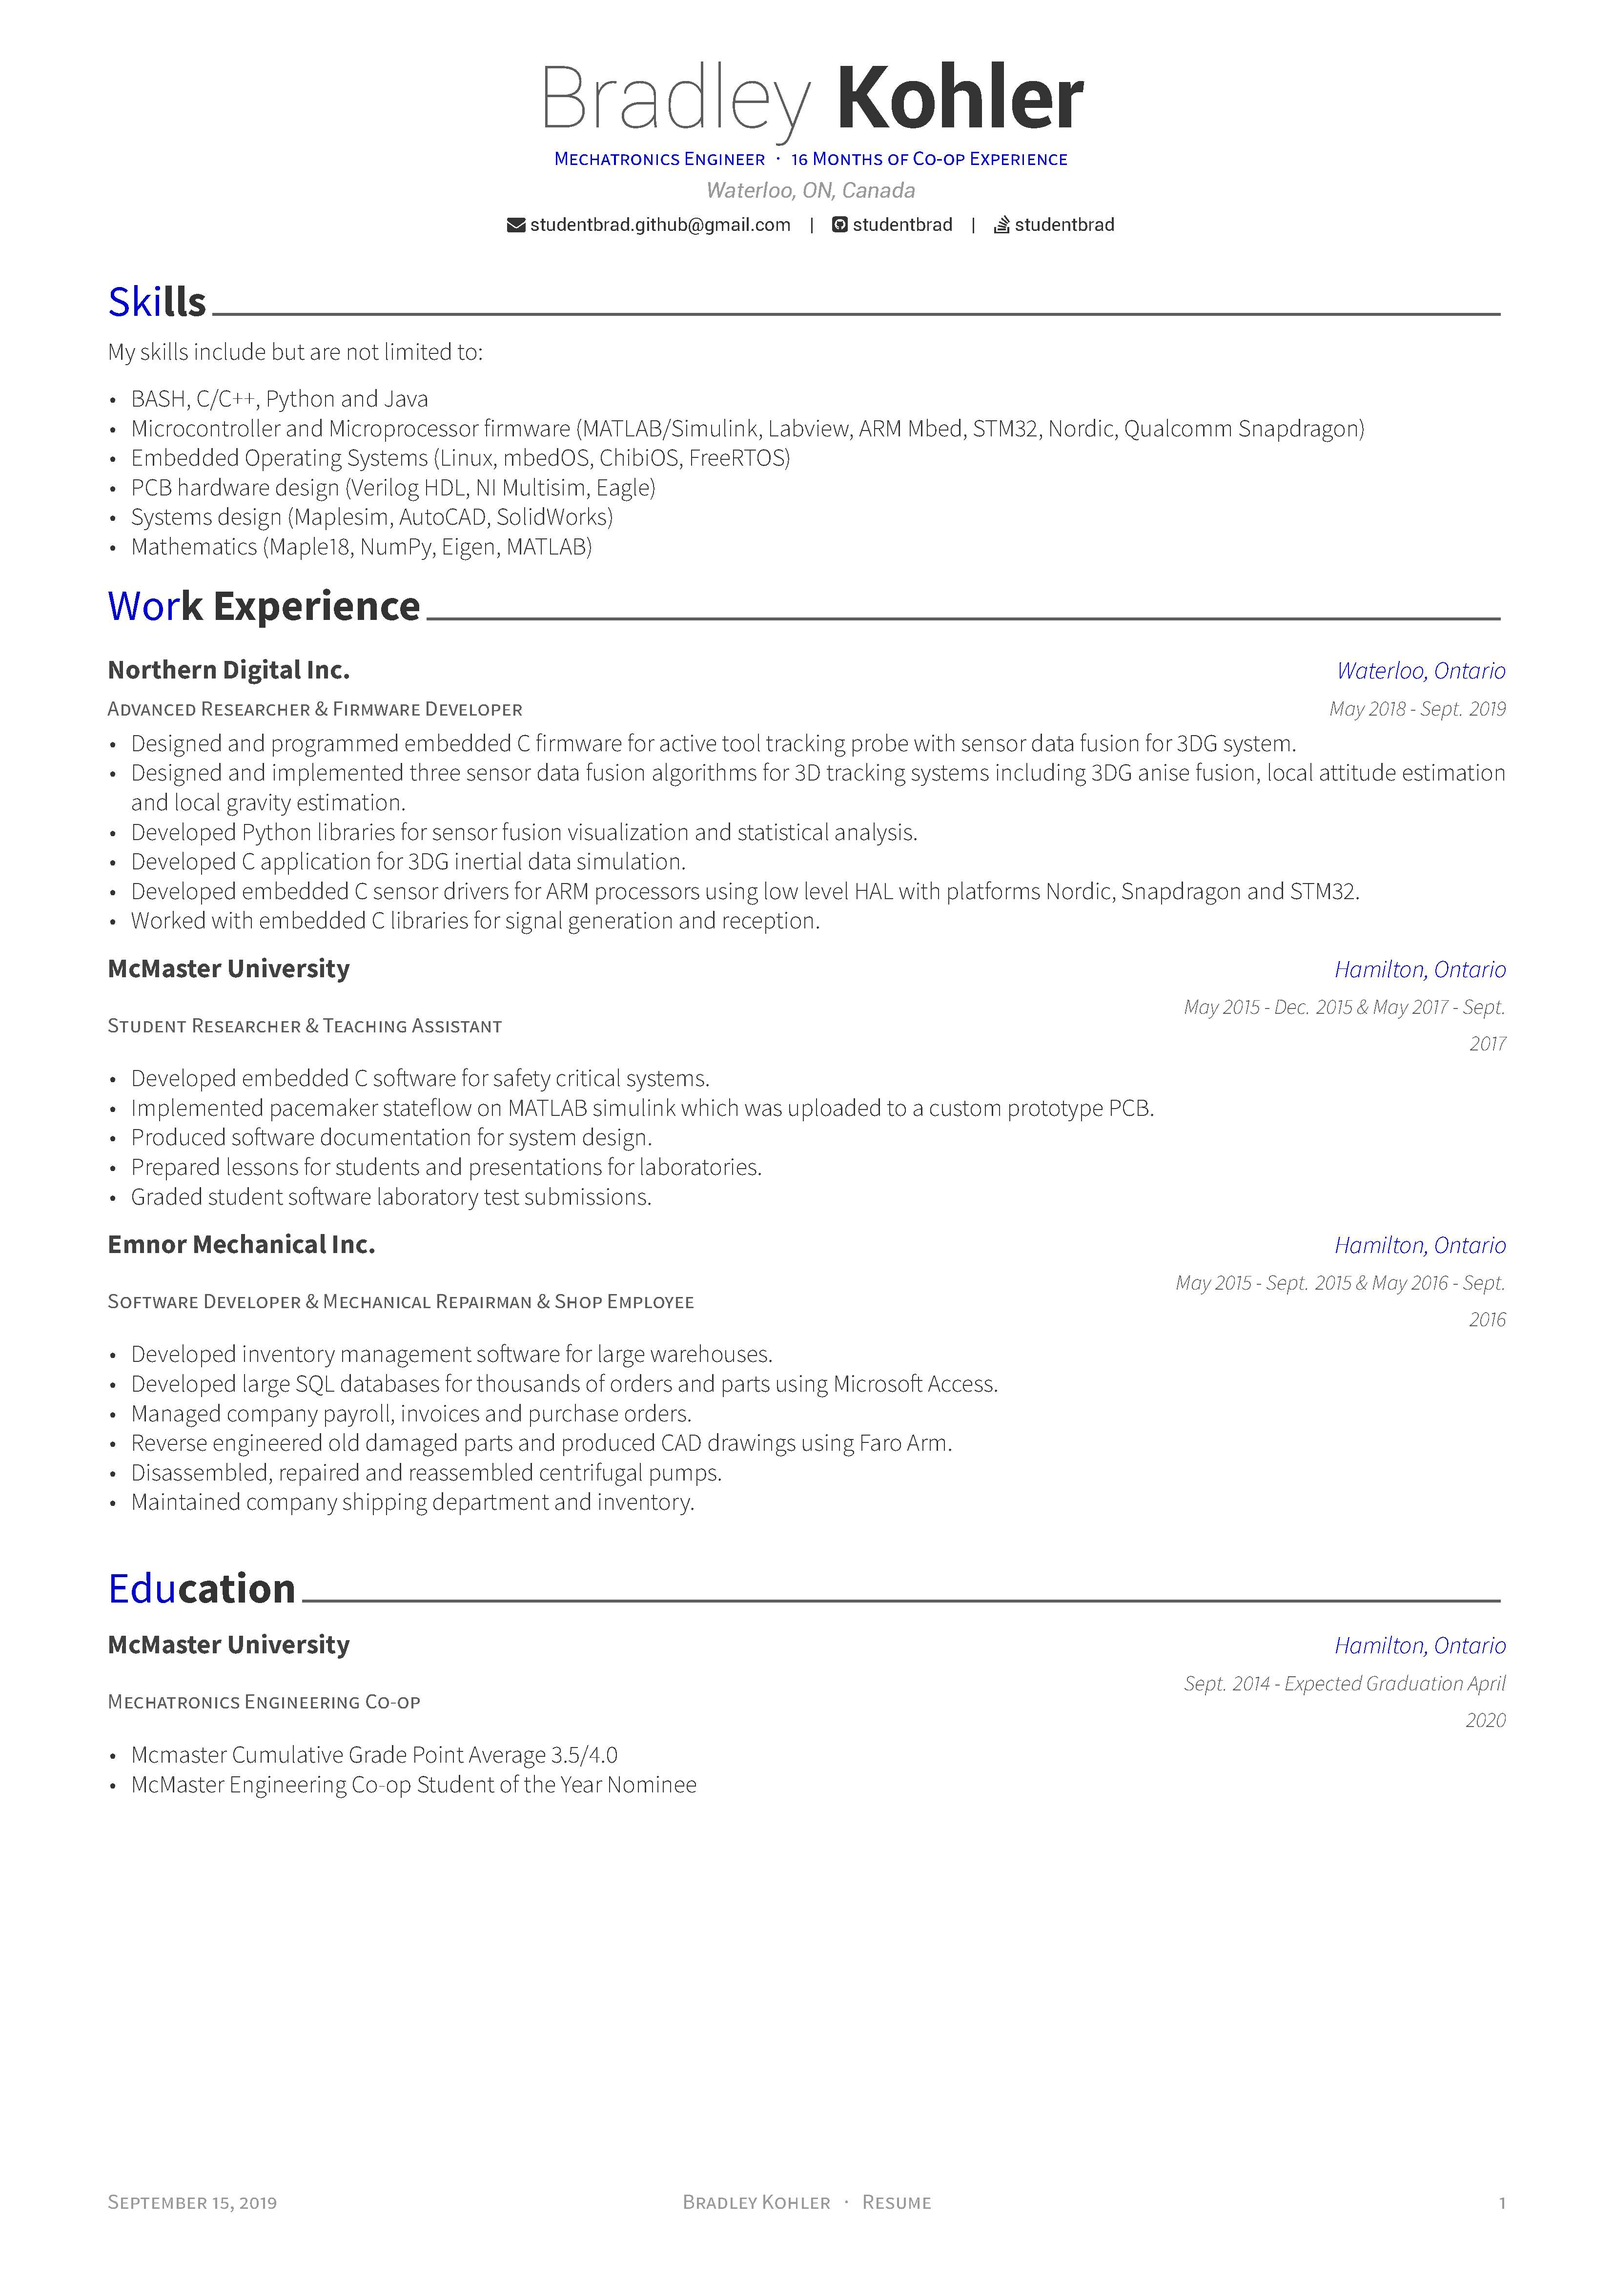
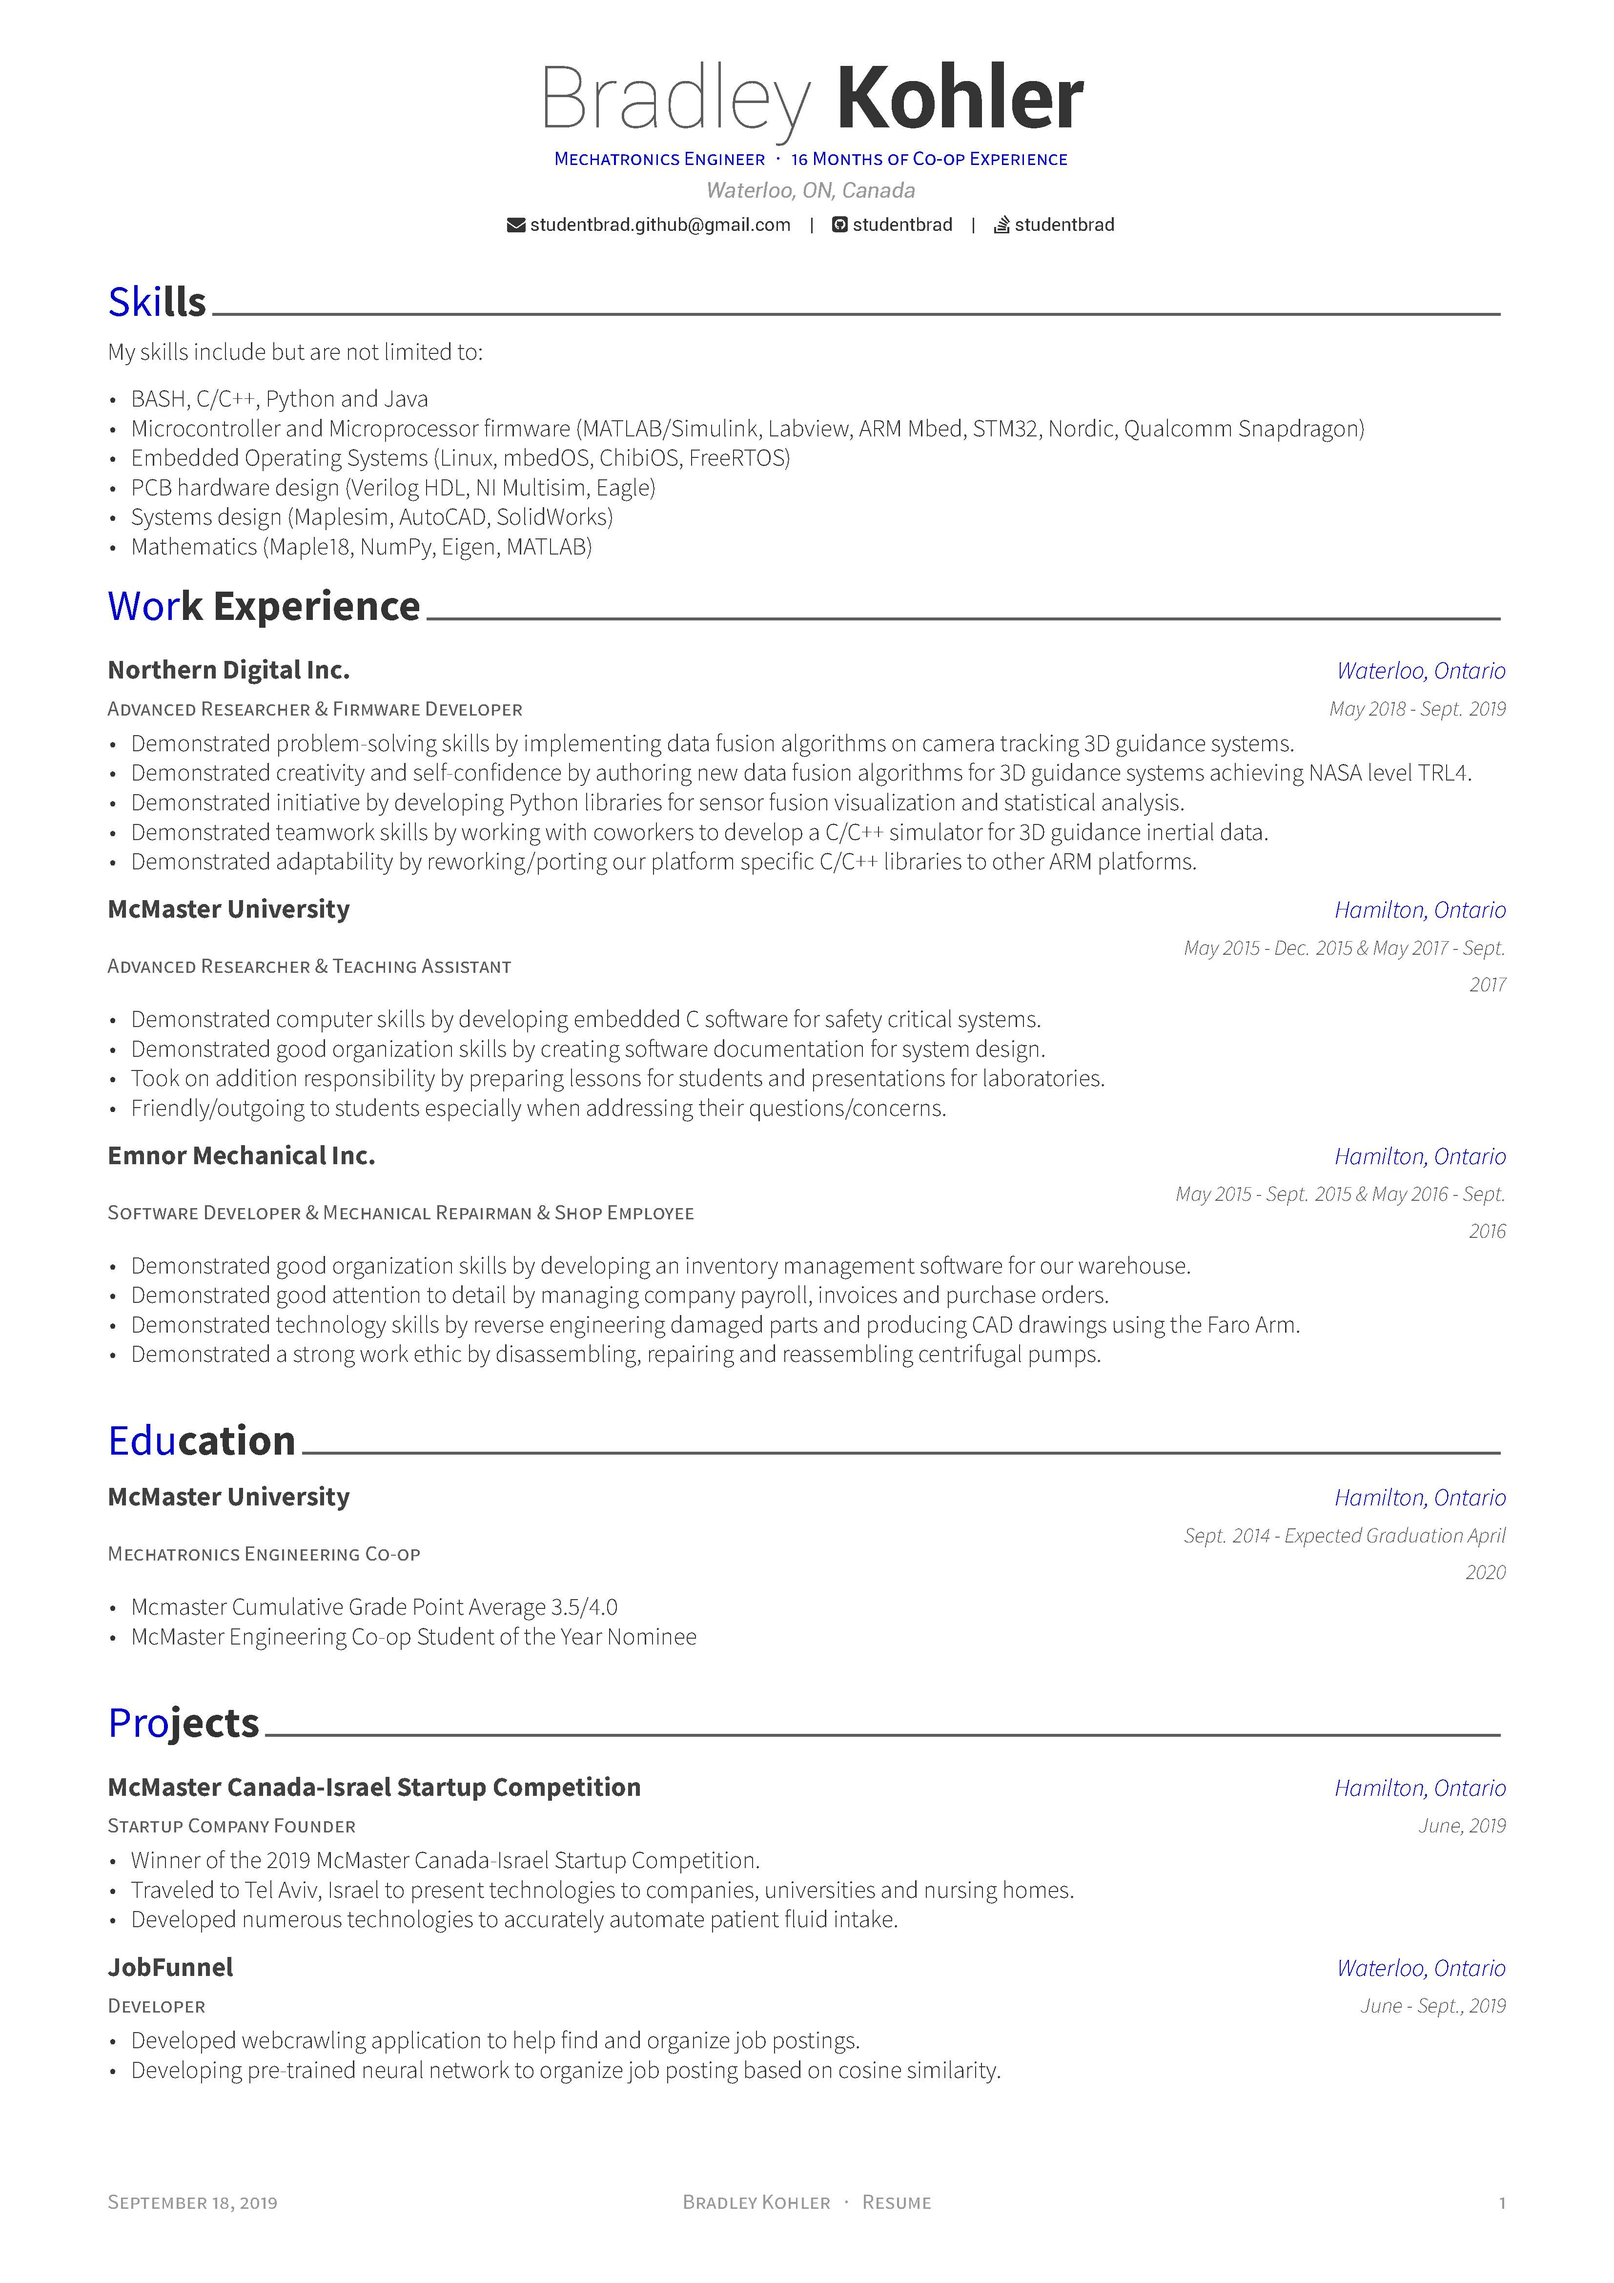
finished majority of changes made by eccs

diff --git a/resume/experience.tex b/resume/experience.tex
@@ -16,28 +16,26 @@
     {May 2018 - Sept. 2019} % Date(s)
     {
       \begin{cvitems} % Description(s) of tasks/responsibilities
-        \item {Designed and programmed embedded C firmware for active tool tracking probe with sensor data fusion for 3DG system.}
-        \item {Designed and implemented three sensor data fusion algorithms for 3D tracking systems including 3DG anise fusion, local attitude estimation and local gravity estimation.}
-        \item {Developed Python libraries for sensor fusion visualization and statistical analysis.}
-        \item {Developed C application for 3DG inertial data simulation.}
-        \item {Developed embedded C sensor drivers for ARM processors using low level HAL with platforms Nordic, Snapdragon and STM32.}
-        \item {Worked with embedded C libraries for signal generation and reception.}
+        \item {Demonstrated problem-solving skills by implementing data fusion algorithms on camera tracking 3D guidance systems.}
+        \item {Demonstrated creativity and self-confidence by authoring new data fusion algorithms for 3D guidance systems achieving NASA level TRL4.}
+        \item {Demonstrated initiative by developing Python libraries for sensor fusion visualization and statistical analysis.}
+        \item {Demonstrated teamwork skills by working with coworkers to develop a C/C++ simulator for 3D guidance inertial data.}
+        \item {Demonstrated adaptability by reworking/porting our platform specific C/C++ libraries to other ARM platforms.}
       \end{cvitems}
     }
 
 %---------------------------------------------------------
   \cventry
-    {Student Researcher \& Teaching Assistant} % Job title
+    {Advanced Researcher \& Teaching Assistant} % Job title
     {McMaster University} % Organization
     {Hamilton, Ontario} % Location
     {May 2015 - Dec. 2015 \& May 2017 - Sept. 2017} % Date(s)
     {
       \begin{cvitems} % Description(s) of tasks/responsibilities
-        \item {Developed embedded C software for safety critical systems.}
-        \item {Implemented pacemaker stateflow on MATLAB simulink which was uploaded to a custom prototype PCB.}
-        \item {Produced software documentation for system design.}
-        \item {Prepared lessons for students and presentations for laboratories.}
-        \item {Graded student software laboratory test submissions.}
+        \item {Demonstrated computer skills by developing embedded C software for safety critical systems.}
+        \item {Demonstrated good organization skills by creating software documentation for system design.}
+        \item {Took on addition responsibility by preparing lessons for students and presentations for laboratories.}
+        \item {Friendly/outgoing to students especially when addressing their questions/concerns.}
       \end{cvitems}
     }
 
@@ -49,14 +47,13 @@
     {May 2015 - Sept. 2015 \& May 2016 - Sept. 2016} % Date(s)
     {
       \begin{cvitems} % Description(s) of tasks/responsibilities
-        \item {Developed inventory management software for large warehouses.}
-        \item {Developed large SQL databases for thousands of orders and parts using Microsoft Access.}
-        \item {Managed company payroll, invoices and purchase orders.}
-        \item {Reverse engineered old damaged parts and produced CAD drawings using Faro Arm.}
-        \item {Disassembled, repaired and reassembled centrifugal pumps.}
-        \item {Maintained company shipping department and inventory.}
+        \item {Demonstrated good organization skills by developing an inventory management software for our warehouse.}
+        \item {Demonstrated good attention to detail by managing company payroll, invoices and purchase orders.}
+        \item {Demonstrated technology skills by reverse engineering damaged parts and producing CAD drawings using the Faro Arm.}
+        \item {Demonstrated a strong work ethic by disassembling, repairing and reassembling centrifugal pumps.}
       \end{cvitems}
     }
 
 %---------------------------------------------------------
+
 \end{cventries}

diff --git a/resume/projects.tex b/resume/projects.tex
@@ -17,20 +17,21 @@
     {
       \begin{cvitems} % Description(s) of experience/contributions/knowledge
         \item {Winner of the 2019 McMaster Canada-Israel Startup Competition.}
-        \item {Designed and programmed numerous technologies to accurately automate patient fluid intake.}
         \item {Traveled to Tel Aviv, Israel to present technologies to companies, universities and nursing homes.}
+        \item {Developed numerous technologies to accurately automate patient fluid intake.}
       \end{cvitems}
     }
 
 %---------------------------------------------------------
   \cventry
-    {Firmware Developer} % Affiliation/role
-    {McMaster Centre for Software Certification} % Organization/group
-    {Hamilton, Ontario} % Location
-    {May, 2017 - Sept. 2017} % Date(s)
+    {Developer} % Affiliation/role
+    {JobFunnel} % Organization/group
+    {Waterloo, Ontario} % Location
+    {June - Sept., 2019} % Date(s)
     {
       \begin{cvitems} % Description(s) of experience/contributions/knowledge
-        \item {}
+        \item {Developed webcrawling application to help find and organize job postings.}
+        \item {Developing pre-trained neural network to organize job posting based on cosine similarity.}
       \end{cvitems}
     }
 

diff --git a/studentbrad_resume.tex b/studentbrad_resume.tex
@@ -83,6 +83,7 @@
 \input{resume/skills.tex}
 \input{resume/experience.tex}
 \input{resume/education.tex}
+\input{resume/projects.tex}
 % \input{resume/research.tex}
 % \input{resume/extracurricular.tex}
 

diff --git a/resume/education.tex b/resume/education.tex
@@ -35,4 +35,5 @@
 %     }
 
 %---------------------------------------------------------
+
 \end{cventries}
